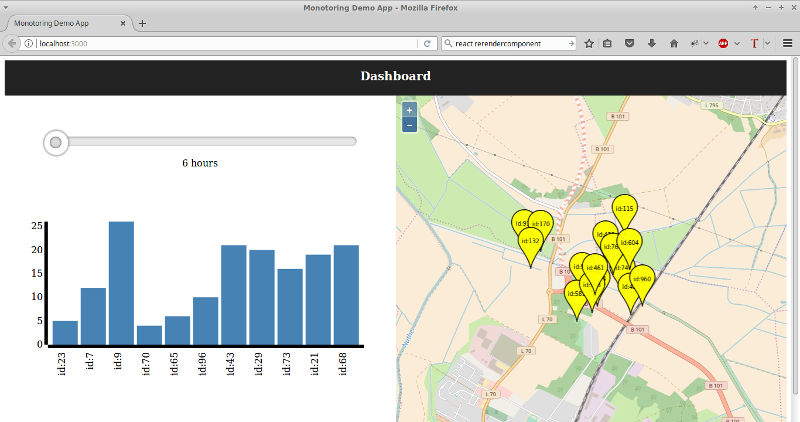
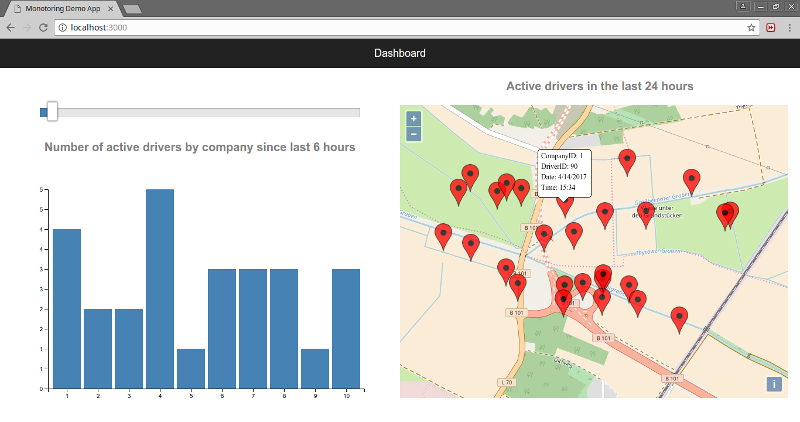
map with tooltips

diff --git a/src/components/Map.js b/src/components/Map.js
@@ -20,13 +20,13 @@ class Map extends Component {
     });
 
     this.map = new ol.Map({
-        target:'map',
-        renderer:'canvas',
-    	  view: new ol.View({
-    		    center: ol.proj.transform([13.23324, 52.234234], 'EPSG:4326', 'EPSG:3857'),
-            zoom:14
-    	     })
-         });
+      target:'map',
+      renderer:'canvas',
+    	view: new ol.View({
+    		center: ol.proj.transform([13.23324, 52.234234], 'EPSG:4326', 'EPSG:3857'),
+        zoom:15
+    	})
+    });
 
    var newLayer = new ol.layer.Tile({source: new ol.source.OSM()});
 
@@ -36,44 +36,52 @@ class Map extends Component {
    this.tooltip = document.getElementById('tooltip');
    this.overlay = new ol.Overlay({
      element: this.tooltip,
-     offset: [10, 0],
+     offset: [-49, -15],
      positioning: 'bottom-left'
    });
 
    this.map.addOverlay(this.overlay);
-   this.map.on('pointermove', this.displayTooltip);
 
-  }
+   var _this = this;
 
-  displayTooltip(evt) {
+   this.map.on('pointermove', function(evt) {
 
-    var pixel   = evt.pixel;
+     var pixel   = evt.pixel;
+     var feature = _this.map.forEachFeatureAtPixel(pixel, function(feature) {
+       return feature;
+     });
 
-    try {
-      
-      var feature = this.map.forEachFeatureAtPixel(pixel, function(feature) {
-        return feature;
-      });
+     _this.tooltip.style.display = feature ? '' : 'none';
 
-      this.tooltip.style.display = feature ? '' : 'none';
-  console.log(feature);
-      if (feature) {
+     if (feature) {
 
-        this.overlay.setPosition(evt.coordinate);
-        this.tooltip.innerHTML = feature.get('name');
-      }
-    }
-    catch(err) {
-    console.log("a");
-    }
+       _this.overlay.setPosition(evt.coordinate);
+
+       let strDate = feature.get('timestamp').replace('T',' ') + ' UTC';
+       let dateObj = new Date(strDate);
+
+       let posDate = dateObj.toLocaleDateString();
+       let posTime = dateObj.getHours() + ":" + (dateObj.getMinutes() < 10 ? "0" + dateObj.getMinutes() : dateObj.getMinutes());
+
+       _this.tooltip.innerHTML = "<span>" + "CompanyID: " + feature.get('companyID') + "</span>" +
+                                 "<span>" + "DriverID: " + feature.get('driverID') + "</span>" +
+                                 "<span>" + "Date: " + posDate + "</span>" +
+                                 "<span>" + "Time: " + posTime + "</span>";
+     }
+
+   });
   }
 
   //Draw a Marker
   AddMarker(dataset) {
 
     let iconFeature = new ol.Feature({
-      geometry: new ol.geom.Point(ol.proj.transform([dataset.longitude, dataset.latitude], 'EPSG:4326',
-      'EPSG:3857')),
+      geometry: new ol.geom.Point(ol.proj.transform([dataset.longitude, dataset.latitude],
+                  'EPSG:4326',
+                  'EPSG:3857')),
+      companyID: dataset.company_id,
+      driverID: dataset.driver_id,
+      timestamp: dataset.timestamp
     });
 
     this.iconFeatures.push(iconFeature);
@@ -93,8 +101,12 @@ class Map extends Component {
     for (let i=0; i<datasets.length; i++) {
 
       let iconFeature = new ol.Feature({
-        geometry: new ol.geom.Point(ol.proj.transform([datasets[i].longitude, datasets[i].latitude], 'EPSG:4326',
-        'EPSG:3857')),
+        geometry: new ol.geom.Point(ol.proj.transform([datasets[i].longitude, datasets[i].latitude],
+                    'EPSG:4326',
+                    'EPSG:3857')),
+        companyID: datasets[i].company_id,
+        driverID: datasets[i].driver_id,
+        timestamp: datasets[i].timestamp
       });
 
       this.iconFeatures.push(iconFeature);

diff --git a/src/DataManager.js b/src/DataManager.js
@@ -22,7 +22,7 @@ class DataManager {
     this.loadedDatasets = stored;
   }
 
-  GetUnixTimestampFromDateStr(strDate) {
+  GetUnixTimestampFromStr(strDate) {
 
     var arrDate = strDate.split(/[^0-9]/);
     var dateObj = new Date (arrDate[0],arrDate[1]-1,arrDate[2],arrDate[3],arrDate[4],arrDate[5]);
@@ -44,7 +44,7 @@ class DataManager {
       for (let i=0; i<stored.length; i++) {
 
         let strDate = stored[i].timestamp;
-        let datasetUnixTimestamp =  this.GetUnixTimestampFromDateStr(strDate);
+        let datasetUnixTimestamp =  this.GetUnixTimestampFromStr(strDate);
 
         if (datasetUnixTimestamp>currentUnixTimeStamp-timeFrame)
           purged.push(stored[i]);
@@ -70,7 +70,7 @@ class DataManager {
       for (let i=0; i<stored.length; i++) {
 
         let strDate = stored[i].timestamp;
-        let datasetUnixTimestamp =  this.GetUnixTimestampFromDateStr(strDate);
+        let datasetUnixTimestamp =  this.GetUnixTimestampFromStr(strDate);
 
         if (datasetUnixTimestamp>currentUnixTimeStamp-timeFrame)
           lastActive.push(stored[i]);
@@ -90,7 +90,7 @@ class DataManager {
     for(let i=0; i<this.loadedDatasets.length; i++) {
 
       let strDate = this.loadedDatasets[i].timestamp;
-      let datasetUnixTimestamp = this.GetUnixTimestampFromDateStr(strDate);
+      let datasetUnixTimestamp = this.GetUnixTimestampFromStr(strDate);
 
       if (datasetUnixTimestamp>(currentUnixTimeStamp-timeFrame*60*60))
         filtered.push(this.loadedDatasets[i]);

diff --git a/src/App.css b/src/App.css
@@ -48,6 +48,48 @@ body {
   height: 500px;
 }
 
+#tooltip {
+  width: 90px;
+  height: 80px;
+  background-color: white;
+  border: 1px solid black;
+  color:black;
+  transition: all 100ms ease-in;
+  border-radius: 4px;
+  display: inline-block;
+  font-size:12px;
+}
+
+#tooltip:before {
+  content: '';
+  display: block;
+  position: absolute;
+  left: 34px;
+  top: 81px;
+  width: 0;
+  height: 0;
+  border: 10px solid transparent;
+  border-top-color: black;
+}
+
+#tooltip:after {
+  content: '';
+  display: block;
+  position: absolute;
+  left: 35px;
+  top: 81px;
+  width: 0;
+  height: 0;
+  border: 9px solid transparent;
+  border-top-color: white;
+}
+
+#tooltip span {
+  padding:3px 5px 0px 5px;
+  float:left;
+  display:inline-block;
+}
+
 #TimeSlider {
   width:80%;
   margin: 48px auto 40px auto;
@@ -60,15 +102,16 @@ body {
 
 /* overriding slider styles */
 
-.rangeslider__tooltip:after {
-  left:24px !important;
-}
-
 .rangeslider__tooltip {
   background-color: #36355f !important;
   width:64px !important;
   height:38px !important;
   left:-25px;
+}
+
+.rangeslider__tooltip:after {
+  left:24px !important;
+  border-top: 8px solid #36355f !important;
 }
 
 .rangeslider__handle {
@@ -91,8 +134,6 @@ body {
   margin-bottom:20px;
 }
 
-/* charts */
-
 #BarChart {
   margin-top:40px;
   width:100%;
@@ -107,7 +148,7 @@ body {
 }
 
 .d3-tip {
-  line-height: 1;
+  line-height: 1.4;
   padding: 6px;
   background-color: #36355f;
   color: #fff;

diff --git a/src/components/D3Helper.js b/src/components/D3Helper.js
@@ -25,8 +25,8 @@ class D3Helper {
       .attr('class', 'd3-tip')
       .offset([-10, 0])
       .html(function(d) {
-        return "<strong>CompanyID:</strong> <span>" + d.companyID + "</span><br/>" +
-               "<strong>Active drivers:</strong> <span>" + d.NumDrivers + "</span>";
+        return "<span>CompanyID: " + d.companyID + "</span><br/>" +
+               "<span>Active drivers: " + d.NumDrivers + "</span>";
     });
 
   }
